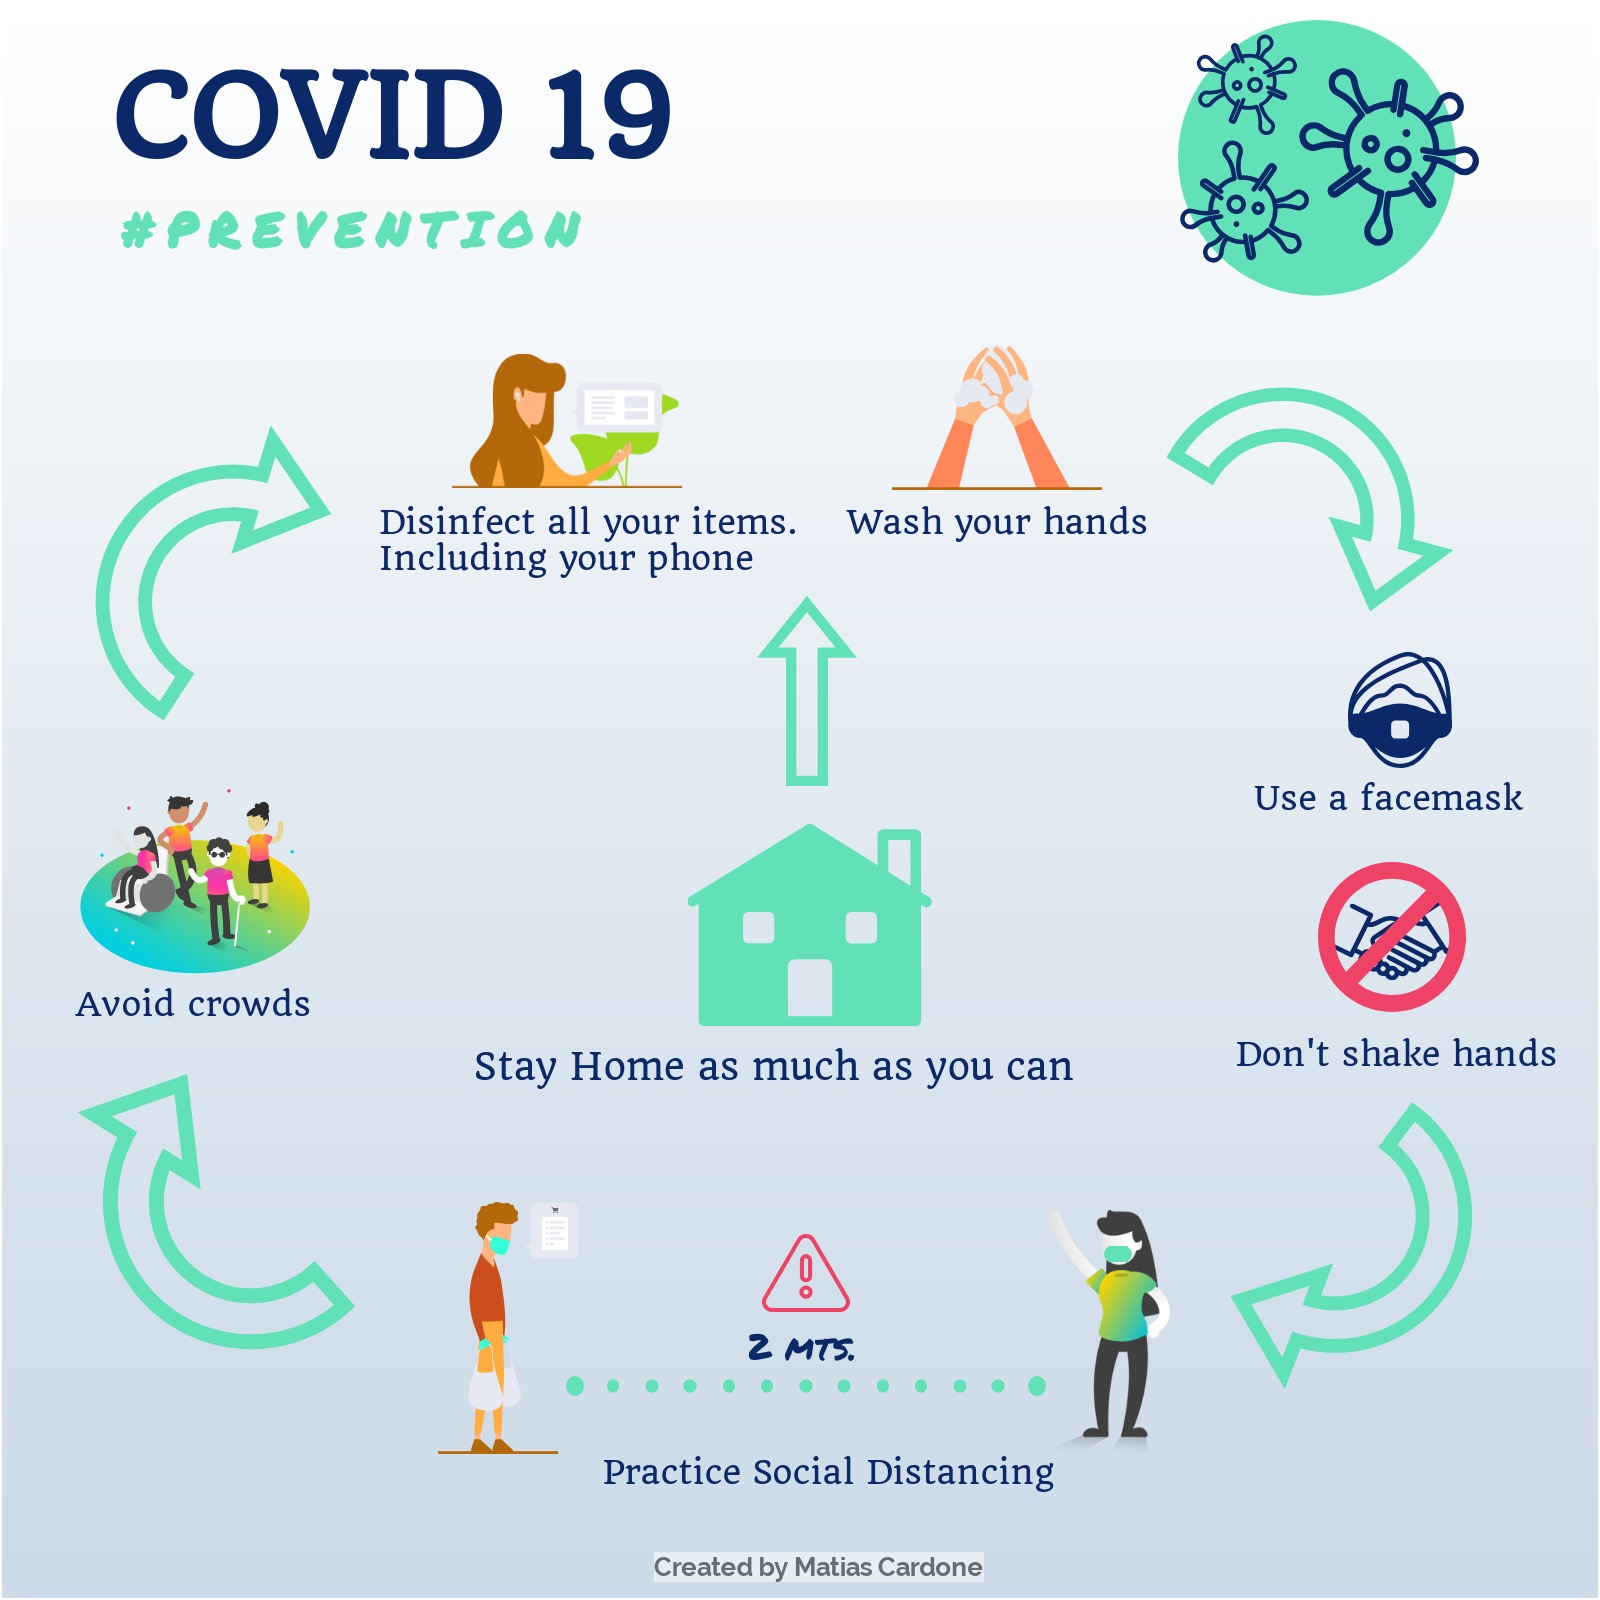
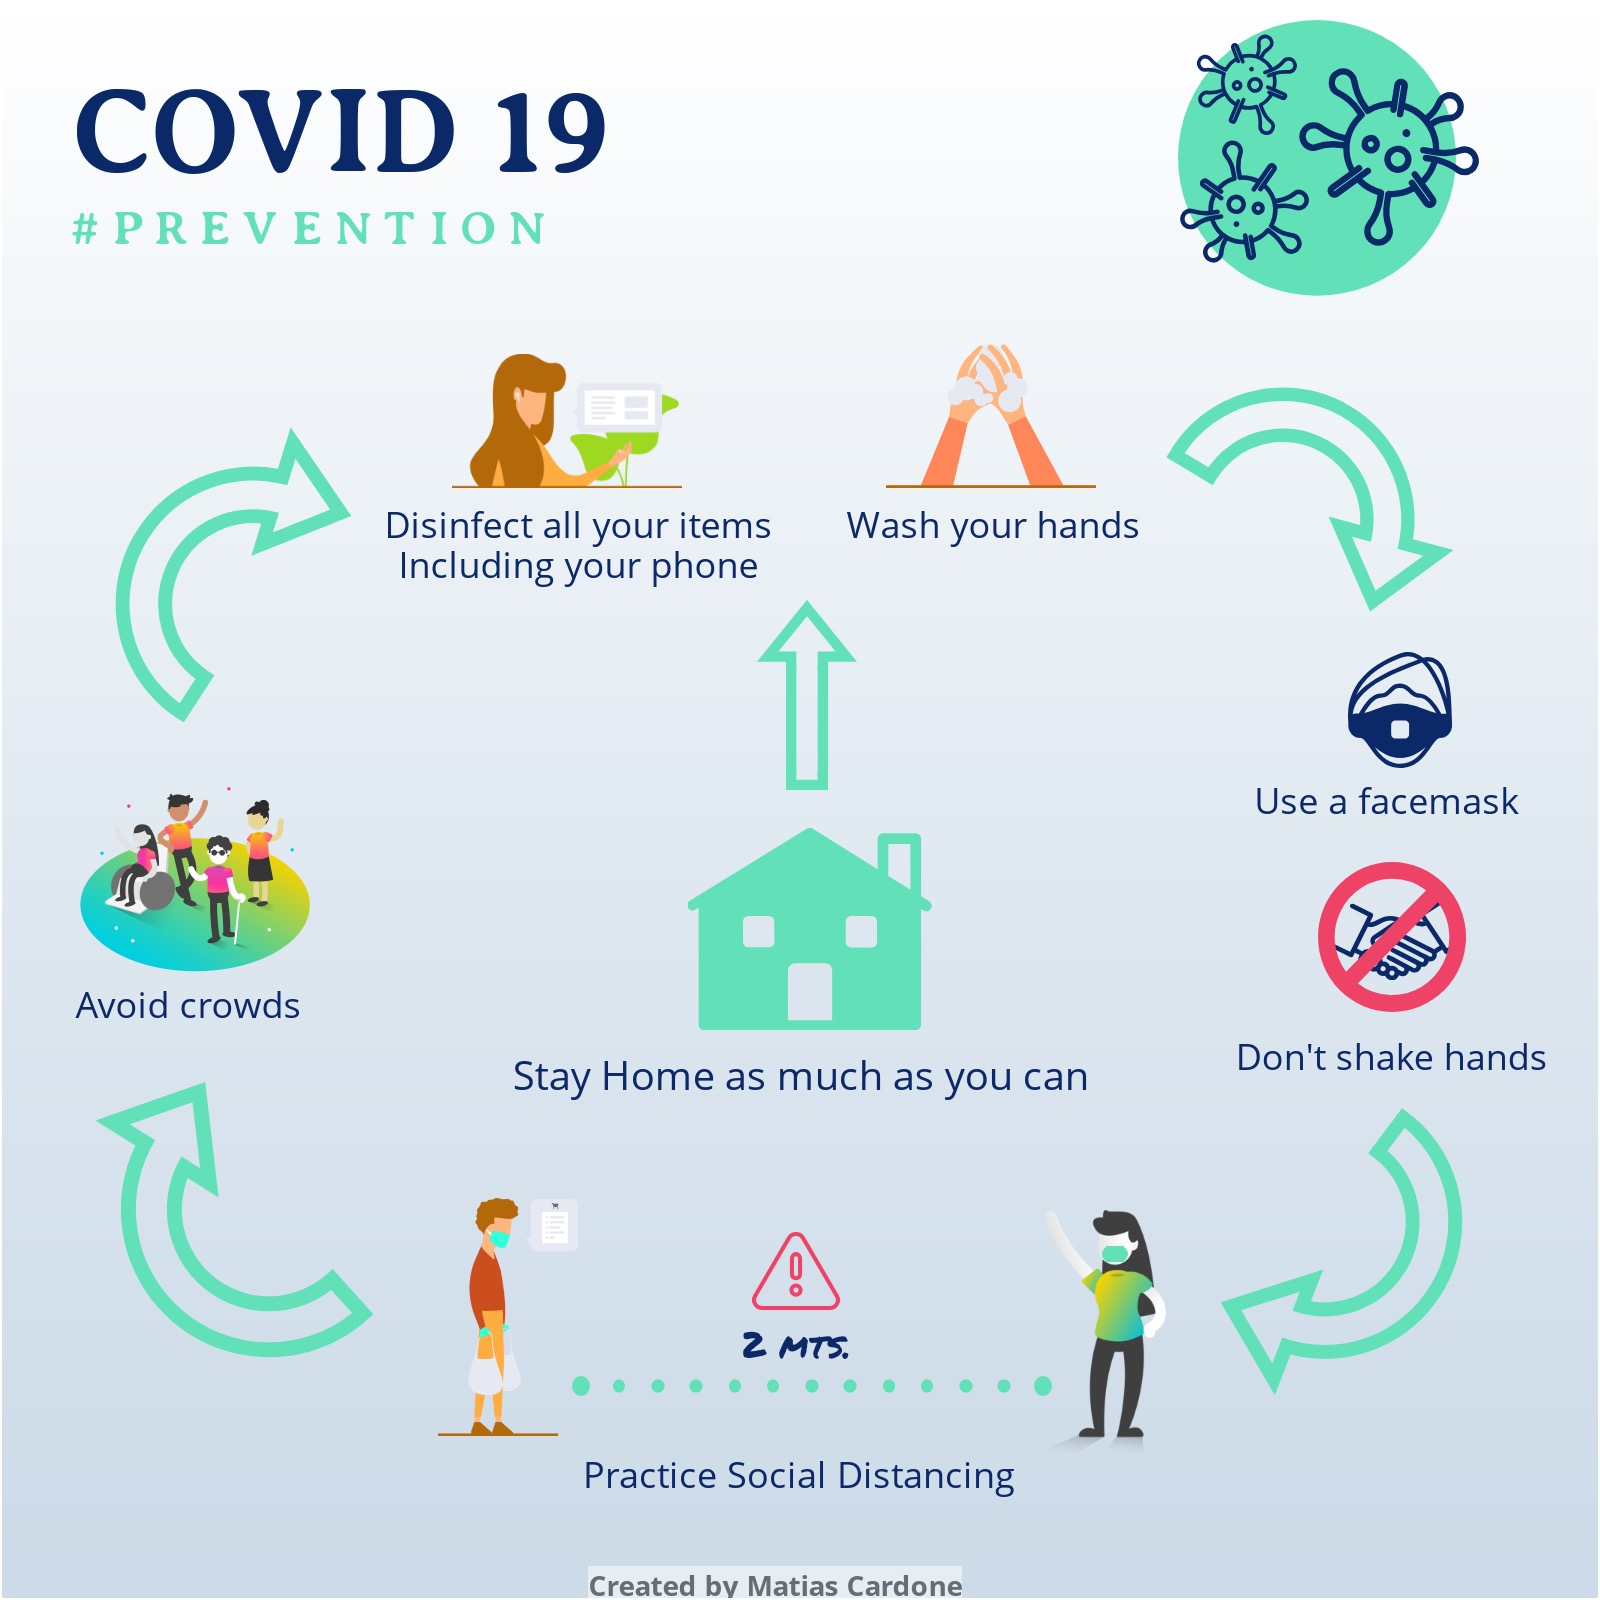
update ig styling boxes

diff --git a/app/static/styles/grid.css b/app/static/styles/grid.css
@@ -20,7 +20,7 @@ body{
     gap: 1px 1px;
     grid-template-areas: 
     "Header Header Header Header Header Header Header Header Nav Nav Nav Nav" 
-    "Header Header Header Header Header Header Header Header Nav Nav Nav Nav" 
+    "Main Main Main Main Main Main Main Main Main Main Main Main" 
     "Main Main Main Main Main Main Main Main Main Main Main Main" "Main Main Main Main Main Main Main Main Main Main Main Main" 
     "Main Main Main Main Main Main Main Main Main Main Main Main" "Main Main Main Main Main Main Main Main Main Main Main Main" 
     "Main Main Main Main Main Main Main Main Main Main Main Main" "Main Main Main Main Main Main Main Main Main Main Main Main" 
@@ -28,7 +28,7 @@ body{
     "Main Main Main Main Main Main Main Main Main Main Main Main" "Main Main Main Main Main Main Main Main Main Main Main Main" 
     "Foot Foot Foot Foot Foot Foot Foot Foot Foot Foot Foot Foot";
     background-color: whitesmoke;
-    font-family: 'Krona One', sans-serif;
+    font-family: 'Averia Serif Libre', cursive;
   }
   
 .Header {
@@ -37,29 +37,26 @@ body{
     background-color: whitesmoke;
     color: black;
     text-align: center;
-    grid-column-start: 6;
-    margin-top: 10%;
-    padding: 2%;
+    margin-left: 50%;
   }
   
 .Nav { 
     grid-area: Nav; 
     grid-column-start: 11;
-    grid-row: 2;
+    /*grid-row: 2;*/
     background-color: whitesmoke;
     color: black;
-    align-content: justify;
-    padding: 2%;
+    margin: 20%;
    }
 
 .Main { 
   grid-area: Main;
   position: relative;
   /*overflow-y: scroll;*/
-  border-top: thick double black;
-  border-bottom: black; 
+  border-top: thick double #333;
+  border-bottom: #333; 
   padding: 1%;
-  font-family: 'Roboto Condensed', sans-serif;
+  font-family: 'Open Sans', sans-serif;
  }
 
 .Foot { 

diff --git a/app/templates/grid.html b/app/templates/grid.html
@@ -2,7 +2,7 @@
 {% block layout %}
 
 <div class="grid-container">
-  <div class="Header"><h2>Clean Covid 19</h2></div>
+  <div class="Header"><h1>Clean Covid 19</h1></div>
 
 <!-- Use any element to open/show the overlay navigation menu -->
   <div class="Nav" > <span onclick="openNav()">||MENU|| </span> </div>
@@ -16,7 +16,7 @@
       <a href="{{ url_for ('index') }}">Main</a>
       <a href="{{ url_for ('aboutcovid') }}">About Covid 19</a>
       <a href="{{ url_for ('infographics')}}">Infographics</a>
-      <a href="{{ url_for ('check')}}">Check Yourself</a>
+     <!-- <a href="{{ url_for ('check')}}">Check Yourself</a> -->
     </div> 
   </div>
 

diff --git a/app/templates/infographics.html b/app/templates/infographics.html
@@ -8,19 +8,16 @@
     <div class="mySlides fade">
       <div class="numbertext">1 / 3</div>
       <img src="/static/img/prevention.jpg" style="width:100%">
-      <div class="text"> Prevention </div>
     </div>
   
     <div class="mySlides fade">
       <div class="numbertext">2 / 3</div>
       <img src="/static/img/stayhome.jpg" style="width:100%">
-      <div class="text"> Stay Home </div>
     </div>
   
     <div class="mySlides fade">
       <div class="numbertext">3 / 3</div>
       <img src="/static/img/symptoms.jpg" style="width:100%">
-      <div class="text"> Symptoms </div>
     </div>
   
     <!-- Next and previous buttons -->

diff --git a/app/static/styles/infographics.css b/app/static/styles/infographics.css
@@ -2,7 +2,7 @@
 
 /* Slideshow container */
 .slideshow-container {
-  max-width: 1000px;
+  max-width: 650px;
   position: relative;
   margin: auto;
 }
@@ -39,20 +39,9 @@
   background-color: rgba(0,0,0,0.8);
 }
 
-/* Caption text */
-.text {
-  color: #f2f2f2;
-  font-size: 15px;
-  padding: 8px 12px;
-  position: absolute;
-  bottom: 8px;
-  width: 100%;
-  text-align: center;
-}
-
 /* Number text (1/3 etc) */
 .numbertext {
-  color: #f2f2f2;
+  color: #333;
   font-size: 12px;
   padding: 8px 12px;
   position: absolute;

diff --git a/app/static/styles/aboutcovid.css b/app/static/styles/aboutcovid.css
@@ -19,7 +19,7 @@
 .box{
     flex: 2;
     flex-basis: 25%;
-    margin: 1%;
+    margin: 2%;
     padding: 10px;
     box-shadow: 0 0 6px 1px red;
     border-radius: 50px;
@@ -29,7 +29,7 @@
   }
   
   .box:hover{
-    transform:scale(1.3);
+    transform:scale(1.2);
     background-image: linear-gradient(to right, rgba(255,165,0,0.15), rgba(255,165,0,0.5));
     z-index: 2;
   }
@@ -42,6 +42,7 @@
   p {
     text-align: center;
     line-height: 1.5;
+    color: #333;
   }
   
   

diff --git a/app/static/styles/fonts.css b/app/static/styles/fonts.css
@@ -1,2 +1,3 @@
 @import url('https://fonts.googleapis.com/css2?family=Krona+One&display=swap');
 @import url('https://fonts.googleapis.com/css2?family=Roboto+Condensed:wght@300&display=swap');
+@import url('https://fonts.googleapis.com/css2?family=Averia+Serif+Libre:wght@700&family=Open+Sans&display=swap');
